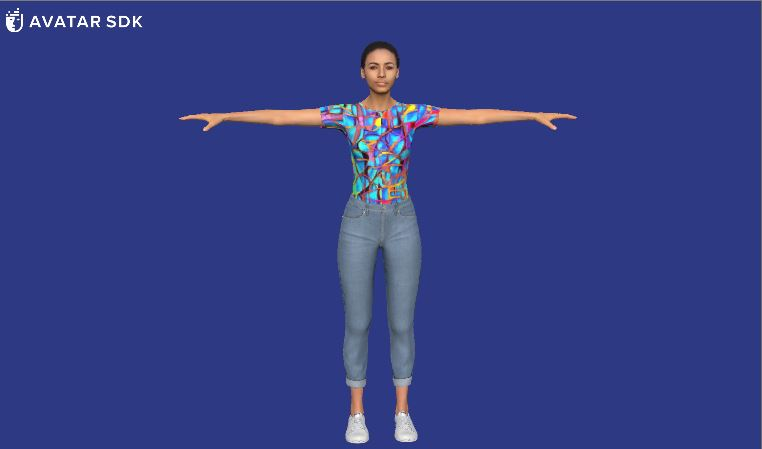
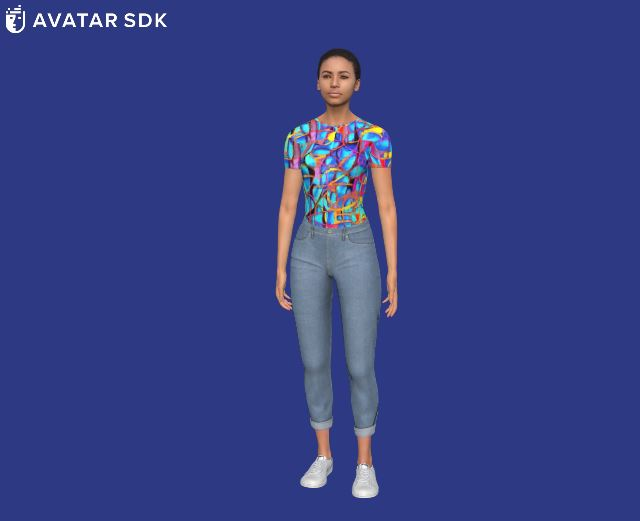
DesktopIntegrationSample: use animation

Changed region(s): [[0.2188, 0.0935, 0.75, 0.9978], [0.0, 0.0, 1.0, 0.0935]]

diff --git a/Samples~/MetaPersonCreatorDesktopIntegrationSample/Assets/AvatarSDK/MetaPerson/DesktopIntegrationSample/Scripts/DesktopUnitySampleHandler.cs b/Samples~/MetaPersonCreatorDesktopIntegrationSample/Assets/AvatarSDK/MetaPerson/DesktopIntegrationSample/Scripts/DesktopUnitySampleHandler.cs
@@ -28,6 +28,8 @@ namespace AvatarSDK.MetaPerson.DesktopIntegrationSample
 
 		public MetaPersonLoader metaPersonLoader;
 
+		public RuntimeAnimatorController animatorController;
+
 		public GameObject webViewPlaceholder;
 
 		public GameObject importControls;
@@ -88,6 +90,7 @@ namespace AvatarSDK.MetaPerson.DesktopIntegrationSample
 								} else if (evtName === 'model_exported') {
 									console.log('model url: ' + data.url);
 									console.log('gender: ' + data.gender);
+									console.log('avatar code: ' + data.avatarCode);
 									window.vuplex.postMessage(evt.data);
 								}
 							}
@@ -114,7 +117,7 @@ namespace AvatarSDK.MetaPerson.DesktopIntegrationSample
 							'eventName': 'set_ui_parameters',
 							'isExportButtonVisible' : true,
 							'closeExportDialogWhenExportComlpeted' : true,
-						  };
+						};
 						evt.source.postMessage(uiParametersMessage, '*');
 					}
 
@@ -146,6 +149,7 @@ namespace AvatarSDK.MetaPerson.DesktopIntegrationSample
 
 					if (isLoaded)
 					{
+						ConfigureAnimation();
 						progressText.text = string.Empty;
 						importControls.SetActive(false);
 					}
@@ -164,6 +168,13 @@ namespace AvatarSDK.MetaPerson.DesktopIntegrationSample
 				getAvatarButton.interactable = true;
 				importControls.SetActive(true);
 			}
+		}
+
+		private void ConfigureAnimation()
+		{
+			HumanoidAnimatorBuilder humanoidAnimatorBuilder = new HumanoidAnimatorBuilder();
+			humanoidAnimatorBuilder.AddHumanoidAnimator(metaPersonLoader.avatarObject);
+			humanoidAnimatorBuilder.SetAnimatorController(animatorController, metaPersonLoader.avatarObject);
 		}
 	}
 #else
